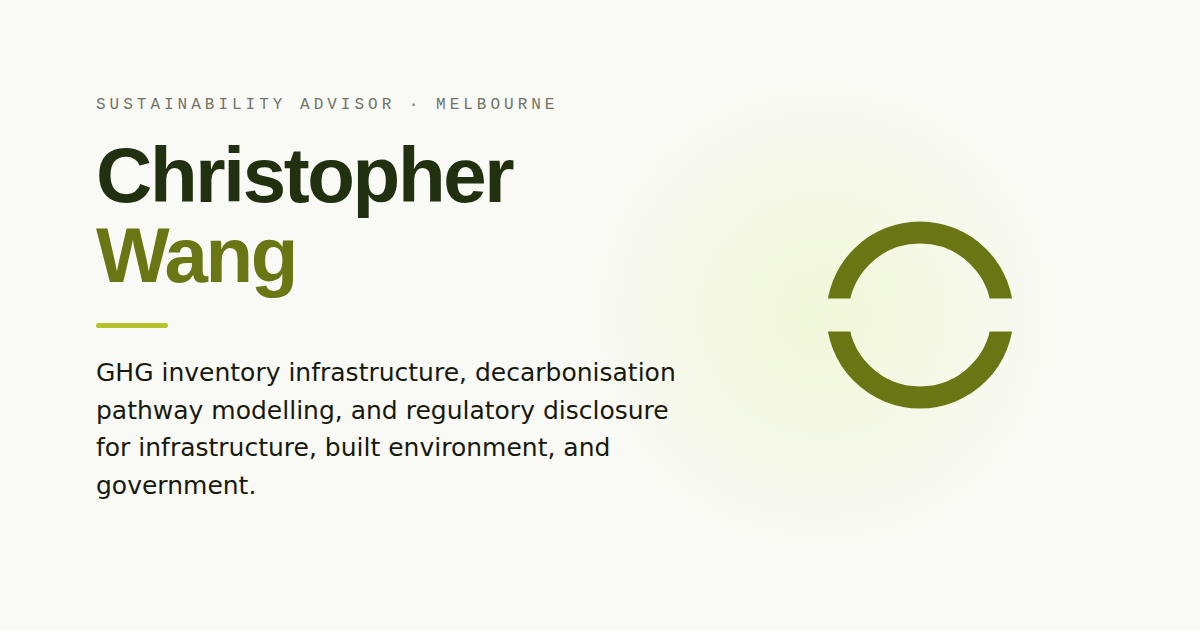
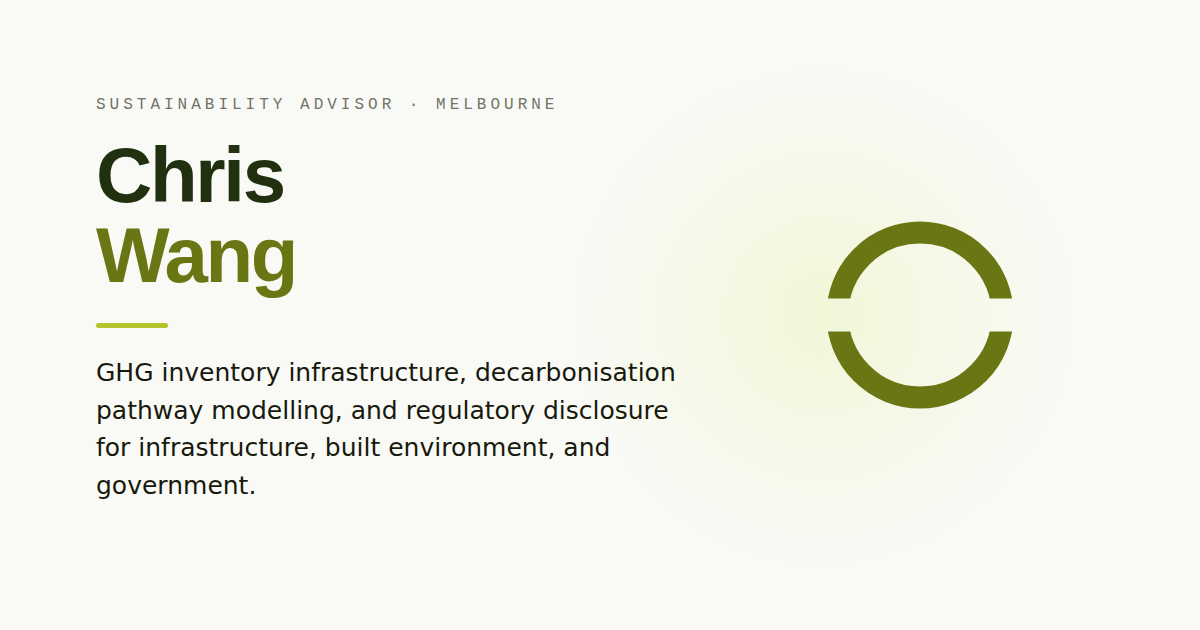
Use Chris Wang consistently in metadata and the OG image
All page titles, og:/twitter: tags, meta descriptions and JSON-LD still said
Christopher Wang, out of step with the Chris Wang naming used everywhere in
the actual page content. Also updates the OG image headline to match.

Changed region(s): [[0.2158, 0.2413, 0.4317, 0.3619]]

diff --git a/fashion/index.html b/fashion/index.html
@@ -4,24 +4,24 @@
   <meta charset="UTF-8">
   <meta name="viewport" content="width=device-width, initial-scale=1.0">
   <title>Cost Per Wear | Fashion brand transparency lookup</title>
-  <meta name="description" content="Cost Per Wear: look up the fashion brands you actually wear and see what they disclose. Real corporate ownership, Fashion Transparency Index 2023 scores and SBTi climate targets for 250+ major brands and retailers. Transparency, not a moral ranking. A working tool by Christopher Wang.">
+  <meta name="description" content="Cost Per Wear: look up the fashion brands you actually wear and see what they disclose. Real corporate ownership, Fashion Transparency Index 2023 scores and SBTi climate targets for 250+ major brands and retailers. Transparency, not a moral ranking. A working tool by Chris Wang.">
   <link rel="canonical" href="https://itschriswang.com/fashion/">
   <link rel="icon" type="image/svg+xml" href="../mark.svg">
   <link rel="icon" type="image/png" href="../favicon.png">
   <link rel="apple-touch-icon" href="../apple-touch-icon.png">
   <meta name="theme-color" content="#F1F7D8">
   <meta property="og:type" content="website">
-  <meta property="og:site_name" content="Christopher Wang | Sustainability Advisor">
+  <meta property="og:site_name" content="Chris Wang | Sustainability Advisor">
   <meta property="og:url" content="https://itschriswang.com/fashion/">
   <meta property="og:title" content="Cost Per Wear | Fashion brand transparency lookup">
-  <meta property="og:description" content="Look up the fashion brands you actually wear. See who really owns them, how much they disclose, and what still needs checking. 250+ brands, cited to Fashion Revolution and the SBTi. A working tool by Christopher Wang.">
+  <meta property="og:description" content="Look up the fashion brands you actually wear. See who really owns them, how much they disclose, and what still needs checking. 250+ brands, cited to Fashion Revolution and the SBTi. A working tool by Chris Wang.">
   <meta property="og:image" content="https://itschriswang.com/og-image.png">
   <meta property="og:image:width" content="1200">
   <meta property="og:image:height" content="630">
   <meta property="og:locale" content="en_AU">
   <meta name="twitter:card" content="summary_large_image">
   <meta name="twitter:title" content="Cost Per Wear | Fashion brand transparency lookup">
-  <meta name="twitter:description" content="Look up the fashion brands you actually wear and see what they disclose. A working tool by Christopher Wang.">
+  <meta name="twitter:description" content="Look up the fashion brands you actually wear and see what they disclose. A working tool by Chris Wang.">
   <meta name="twitter:image" content="https://itschriswang.com/og-image.png">
   <link rel="preconnect" href="https://fonts.googleapis.com">
   <link rel="preconnect" href="https://fonts.gstatic.com" crossorigin>

diff --git a/index.html b/index.html
@@ -3,25 +3,25 @@
 <head>
   <meta charset="UTF-8">
   <meta name="viewport" content="width=device-width, initial-scale=1.0">
-  <title>Christopher Wang | Sustainability Advisor</title>
-  <meta name="description" content="Christopher Wang: Sustainability Advisor. GHG inventory infrastructure, decarbonisation pathway modelling, and regulatory disclosure for infrastructure, built environment, and government. Based in Melbourne.">
+  <title>Chris Wang | Sustainability Advisor</title>
+  <meta name="description" content="Chris Wang: Sustainability Advisor. GHG inventory infrastructure, decarbonisation pathway modelling, and regulatory disclosure for infrastructure, built environment, and government. Based in Melbourne.">
   <link rel="canonical" href="https://itschriswang.com/">
   <link rel="icon" type="image/svg+xml" href="mark.svg">
   <link rel="icon" type="image/png" href="favicon.png">
   <link rel="apple-touch-icon" href="apple-touch-icon.png">
   <meta name="theme-color" content="#FAFAF7">
   <meta property="og:type" content="website">
-  <meta property="og:site_name" content="Christopher Wang | Sustainability Advisor">
+  <meta property="og:site_name" content="Chris Wang | Sustainability Advisor">
   <meta property="og:url" content="https://itschriswang.com/">
-  <meta property="og:title" content="Christopher Wang | Sustainability Advisor">
+  <meta property="og:title" content="Chris Wang | Sustainability Advisor">
   <meta property="og:description" content="GHG inventory infrastructure, decarbonisation pathway modelling, and regulatory disclosure for infrastructure, built environment, and government. Based in Melbourne.">
   <meta property="og:image" content="https://itschriswang.com/og-image.png">
   <meta property="og:image:width" content="1200">
   <meta property="og:image:height" content="630">
-  <meta property="og:image:alt" content="Christopher Wang, Sustainability Advisor, Melbourne">
+  <meta property="og:image:alt" content="Chris Wang, Sustainability Advisor, Melbourne">
   <meta property="og:locale" content="en_AU">
   <meta name="twitter:card" content="summary_large_image">
-  <meta name="twitter:title" content="Christopher Wang | Sustainability Advisor">
+  <meta name="twitter:title" content="Chris Wang | Sustainability Advisor">
   <meta name="twitter:description" content="GHG inventory infrastructure, decarbonisation pathway modelling, and regulatory disclosure. Based in Melbourne.">
   <meta name="twitter:image" content="https://itschriswang.com/og-image.png">
   <link rel="preconnect" href="https://fonts.googleapis.com">
@@ -31,7 +31,7 @@
   {
     "@context": "https://schema.org",
     "@type": "Person",
-    "name": "Christopher Wang",
+    "name": "Chris Wang",
     "jobTitle": "Sustainability Advisor",
     "url": "https://itschriswang.com/",
     "image": "https://itschriswang.com/og-image.png",

diff --git a/work/index.html b/work/index.html
@@ -3,25 +3,25 @@
 <head>
   <meta charset="UTF-8">
   <meta name="viewport" content="width=device-width, initial-scale=1.0">
-  <title>Work Samples | Christopher Wang</title>
-  <meta name="description" content="Work samples: four analytical frameworks Christopher Wang has delivered in production across infrastructure, built environment, and government. Emissions baseline, decarbonisation roadmap, multi-criteria analysis, and lifecycle carbon.">
+  <title>Work Samples | Chris Wang</title>
+  <meta name="description" content="Work samples: four analytical frameworks Chris Wang has delivered in production across infrastructure, built environment, and government. Emissions baseline, decarbonisation roadmap, multi-criteria analysis, and lifecycle carbon.">
   <link rel="canonical" href="https://itschriswang.com/work/">
   <link rel="icon" type="image/svg+xml" href="../mark.svg">
   <link rel="icon" type="image/png" href="../favicon.png">
   <link rel="apple-touch-icon" href="../apple-touch-icon.png">
   <meta name="theme-color" content="#FAFAF7">
   <meta property="og:type" content="website">
-  <meta property="og:site_name" content="Christopher Wang | Sustainability Advisor">
+  <meta property="og:site_name" content="Chris Wang | Sustainability Advisor">
   <meta property="og:url" content="https://itschriswang.com/work/">
-  <meta property="og:title" content="Work Samples | Christopher Wang">
+  <meta property="og:title" content="Work Samples | Chris Wang">
   <meta property="og:description" content="Four analytical frameworks delivered in production: emissions baseline, decarbonisation roadmap, multi-criteria analysis, and lifecycle carbon.">
   <meta property="og:image" content="https://itschriswang.com/og-image.png">
   <meta property="og:image:width" content="1200">
   <meta property="og:image:height" content="630">
-  <meta property="og:image:alt" content="Christopher Wang, Sustainability Advisor, Melbourne">
+  <meta property="og:image:alt" content="Chris Wang, Sustainability Advisor, Melbourne">
   <meta property="og:locale" content="en_AU">
   <meta name="twitter:card" content="summary_large_image">
-  <meta name="twitter:title" content="Work Samples | Christopher Wang">
+  <meta name="twitter:title" content="Work Samples | Chris Wang">
   <meta name="twitter:description" content="Four analytical frameworks delivered in production: emissions baseline, decarbonisation roadmap, multi-criteria analysis, and lifecycle carbon.">
   <meta name="twitter:image" content="https://itschriswang.com/og-image.png">
   <link rel="preconnect" href="https://fonts.googleapis.com">

diff --git a/footprint/index.html b/footprint/index.html
@@ -3,7 +3,7 @@
 <head>
   <meta charset="UTF-8">
   <meta name="viewport" content="width=device-width, initial-scale=1.0">
-  <title>Carbon Footprint Calculator | Christopher Wang</title>
+  <title>Carbon Footprint Calculator | Chris Wang</title>
   <meta name="description" content="Your Carbon Footprint: a plain-English personal carbon calculator and visual case study. See a real year of flights, power, food and freight priced on published factors, then run your own. Your data stays in your browser.">
   <link rel="canonical" href="https://itschriswang.com/footprint/">
   <link rel="icon" type="image/svg+xml" href="../mark.svg">
@@ -11,9 +11,9 @@
   <link rel="apple-touch-icon" href="../apple-touch-icon.png">
   <meta name="theme-color" content="#FAFAF7">
   <meta property="og:type" content="website">
-  <meta property="og:site_name" content="Christopher Wang | Sustainability Advisor">
+  <meta property="og:site_name" content="Chris Wang | Sustainability Advisor">
   <meta property="og:url" content="https://itschriswang.com/footprint/">
-  <meta property="og:title" content="Your Carbon Footprint | Christopher Wang">
+  <meta property="og:title" content="Your Carbon Footprint | Chris Wang">
   <meta property="og:description" content="Chris's FY2026 carbon emissions, counted honestly: every flight, power bill, parcel and dinner priced on published factors and shown as a visual reveal. Run your own, privately.">
   <meta property="og:image" content="https://itschriswang.com/og-footprint.png">
   <meta property="og:image:width" content="1200">
@@ -21,7 +21,7 @@
   <meta property="og:image:alt" content="Your Carbon Footprint: a year of carbon emissions counted honestly, flights the largest share. Published factors, no offsets, data stays in your browser.">
   <meta property="og:locale" content="en_AU">
   <meta name="twitter:card" content="summary_large_image">
-  <meta name="twitter:title" content="Your Carbon Footprint | Christopher Wang">
+  <meta name="twitter:title" content="Your Carbon Footprint | Chris Wang">
   <meta name="twitter:description" content="A plain-English personal carbon calculator and visual case study. Chris's FY2026 carbon emissions on published factors. Run your own; data stays in your browser.">
   <meta name="twitter:image" content="https://itschriswang.com/og-footprint.png">
   <link rel="preconnect" href="https://fonts.googleapis.com">

diff --git a/footprint/method/index.html b/footprint/method/index.html
@@ -3,7 +3,7 @@
 <head>
   <meta charset="UTF-8">
   <meta name="viewport" content="width=device-width, initial-scale=1.0">
-  <title>How it works | Your Carbon Footprint | Christopher Wang</title>
+  <title>How it works | Your Carbon Footprint | Chris Wang</title>
   <meta name="description" content="How the Your Carbon Footprint calculator works: what it includes and excludes, the published factor sources it uses, how results are calculated, and how to read them.">
   <link rel="canonical" href="https://itschriswang.com/footprint/method/">
   <link rel="icon" type="image/svg+xml" href="../../mark.svg">
@@ -11,9 +11,9 @@
   <link rel="apple-touch-icon" href="../../apple-touch-icon.png">
   <meta name="theme-color" content="#FAFAF7">
   <meta property="og:type" content="website">
-  <meta property="og:site_name" content="Christopher Wang | Sustainability Advisor">
+  <meta property="og:site_name" content="Chris Wang | Sustainability Advisor">
   <meta property="og:url" content="https://itschriswang.com/footprint/method/">
-  <meta property="og:title" content="How it works | Your Carbon Footprint | Christopher Wang">
+  <meta property="og:title" content="How it works | Your Carbon Footprint | Chris Wang">
   <meta property="og:description" content="How the calculator works: boundary, published factor sources, how results are calculated, and how to read them. With the live factor tables.">
   <meta property="og:image" content="https://itschriswang.com/og-footprint.png">
   <meta property="og:image:width" content="1200">
@@ -21,7 +21,7 @@
   <meta property="og:image:alt" content="How the Your Carbon Footprint calculator works: published factor sources, what it includes and excludes, and how results are calculated.">
   <meta property="og:locale" content="en_AU">
   <meta name="twitter:card" content="summary_large_image">
-  <meta name="twitter:title" content="How it works | Your Carbon Footprint | Christopher Wang">
+  <meta name="twitter:title" content="How it works | Your Carbon Footprint | Chris Wang">
   <meta name="twitter:description" content="How the calculator works: boundary, published factor sources, how results are calculated, and how to read them.">
   <meta name="twitter:image" content="https://itschriswang.com/og-footprint.png">
   <link rel="preconnect" href="https://fonts.googleapis.com">
